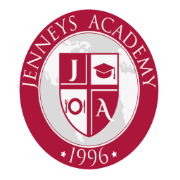
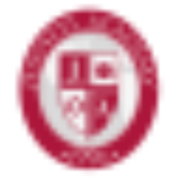
resolved

diff --git a/index.html b/index.html
@@ -4,7 +4,6 @@
 <head>
     <meta charset="UTF-8">
     <title>JAHM</title>
-    <link rel="icon" type="image/x-icon" href="favicon.ico">
 
     <!-- Mobile Specific Metas-->
     <meta name="viewport" content="width=device-width, initial-scale=1, maximum-scale=1">
@@ -24,9 +23,16 @@
     <link rel="stylesheet" href="stylesheet/owl.carousel.min.css">
     <link rel="stylesheet" href="stylesheet/jquery.mCustomScrollbar.min.css">
 
-    <link href="icon/favicon.ico" rel="shortcut icon">
+    <link rel="preload" href="/favicon-32x32.png" as="image" type="image/png">
 
-   
+   <!-- Standard favicon -->
+<link rel="icon" type="image/png" sizes="32x32" href="/favicon-32x32.png">
+
+<!-- Apple touch icon -->
+<link rel="apple-touch-icon" href="/apple-touch-icon.png">
+
+<!-- Web app manifest -->
+<link rel="manifest" href="/site.webmanifest">
 
     <link href="https://cdn.jsdelivr.net/npm/bootstrap@5.3.0/dist/css/bootstrap.min.css" rel="stylesheet"
         integrity="sha384-9ndCyUaIbzAi2FUVXJi0CjmCapSmO7SnpJef0486qhLnuZ2cdeRhO02iuK6FUUVM" crossorigin="anonymous">
